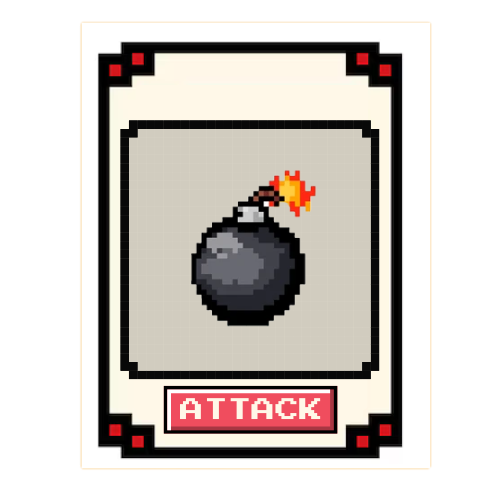
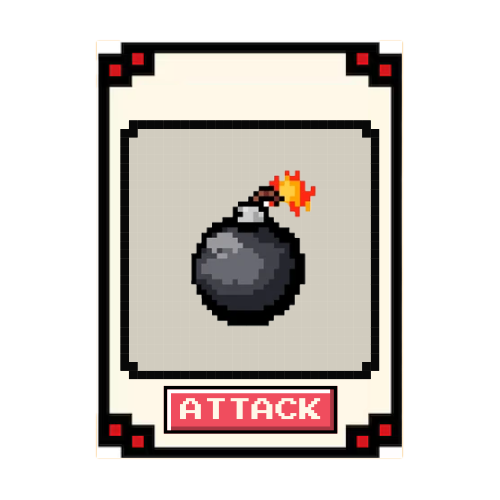
update

diff --git a/app/battle/page.js b/app/battle/page.js
@@ -100,30 +100,48 @@ export default function BattlePage() {
 
             <div className="arena">
                 <div className="fighter">
-                    <Image src="/characters/player.png" alt="Player" width={200} height={300} priority />
+                    <Image src="/characters/Player_sprite.png" alt="Player" width={150} height={200} priority />
                 </div>
                 <div className="fighter enemy-fighter">
-                    <Image src="/characters/bill_nye.png" alt="Enemy" width={200} height={300} priority />
+                    <Image src="/characters/Bill_knife.png" alt="Enemy" width={200} height={300} priority />
                 </div>
             </div>
 
             <div className="cards">
-                {cards.map((card, index) => (
-                    <div
-                        key={index}
-                        className="card hover:scale-105 transition cursor-pointer"
-                        onClick={() => {
-                            setSelectedAttack({
-                                name: card.name,
-                                damage: player.attack_damage + card.damageBonus,
-                                difficulty: card.difficulty,
-                            });
-                            setShowQuiz(true);
-                        }}
-                    >
-                        <Image src={card.icon} alt={card.name} width={350} height={400} />
-                    </div>
-                ))}
+                {cards.map((card, index) => {
+
+                    const totalDamage =
+                        player.attack_damage + card.damageBonus;
+
+                    return (
+                        <div
+                            key={index}
+                            className="card"
+                            onClick={() => {
+                                setSelectedAttack({
+                                    name: card.name,
+                                    damage: totalDamage,
+                                    difficulty: card.difficulty,
+                                });
+
+                                setShowQuiz(true);
+                            }}
+                        >
+                            <div className="card-damage">
+                                +{totalDamage} DMG
+                            </div>
+
+                            <Image
+                                src={card.icon}
+                                alt={card.name}
+                                width={350}
+                                height={400}
+                                className="card-image"
+                            />
+
+                        </div>
+                    );
+                })}
             </div>
 
             {showQuiz && currentQuestion && (

diff --git a/app/styles/battle.css b/app/styles/battle.css
@@ -1,3 +1,9 @@
+.jersey-10-regular {
+    font-family: "Jersey 10", sans-serif;
+    font-weight: 400;
+    font-style: normal;
+}
+
 .battle-page {
     display: flex;
     flex-direction: column;
@@ -27,15 +33,52 @@
 } */
 
 .cards {
-    position: absolute;
     bottom: 20px;
     left: 0;
     right: 0;
 
     display: flex;
     justify-content: center;
+    gap: 20px;
+    position: relative;
+    cursor: pointer;
+    transition: transform 0.2s ease;
 }
 
+.card {
+    display: flex;
+    flex-direction: column;
+    align-items: center;
+    cursor: pointer;
+    transition: transform 0.2s ease;
+}
+
+.card:hover {
+    transform: scale(1.05);
+}
+
+.card-damage {
+    position: absolute;
+    top: 14px;
+    left: 50%;
+    transform: translateX(-50%);
+    z-index: 5;
+    font-family: "Jersey 10", sans-serif;
+    font-weight: 400;
+
+    font-size: 25px;
+    letter-spacing: 2px;
+
+    color: #ff3131;
+
+    text-shadow:
+        3px 3px 0 #000,
+        0 0 12px rgba(255, 0, 0, 0.8);
+
+    user-select: none;
+
+    pointer-events: none;
+}
 /* .cards button {
     padding: 20px;
     background: crimson;

diff --git a/app/globals.css b/app/globals.css
@@ -32,9 +32,3 @@ body {
   }
 }
 
-
-.jersey-10-regular {
-  font-family: "Jersey 10", sans-serif;
-  font-weight: 400;
-  font-style: normal;
-}